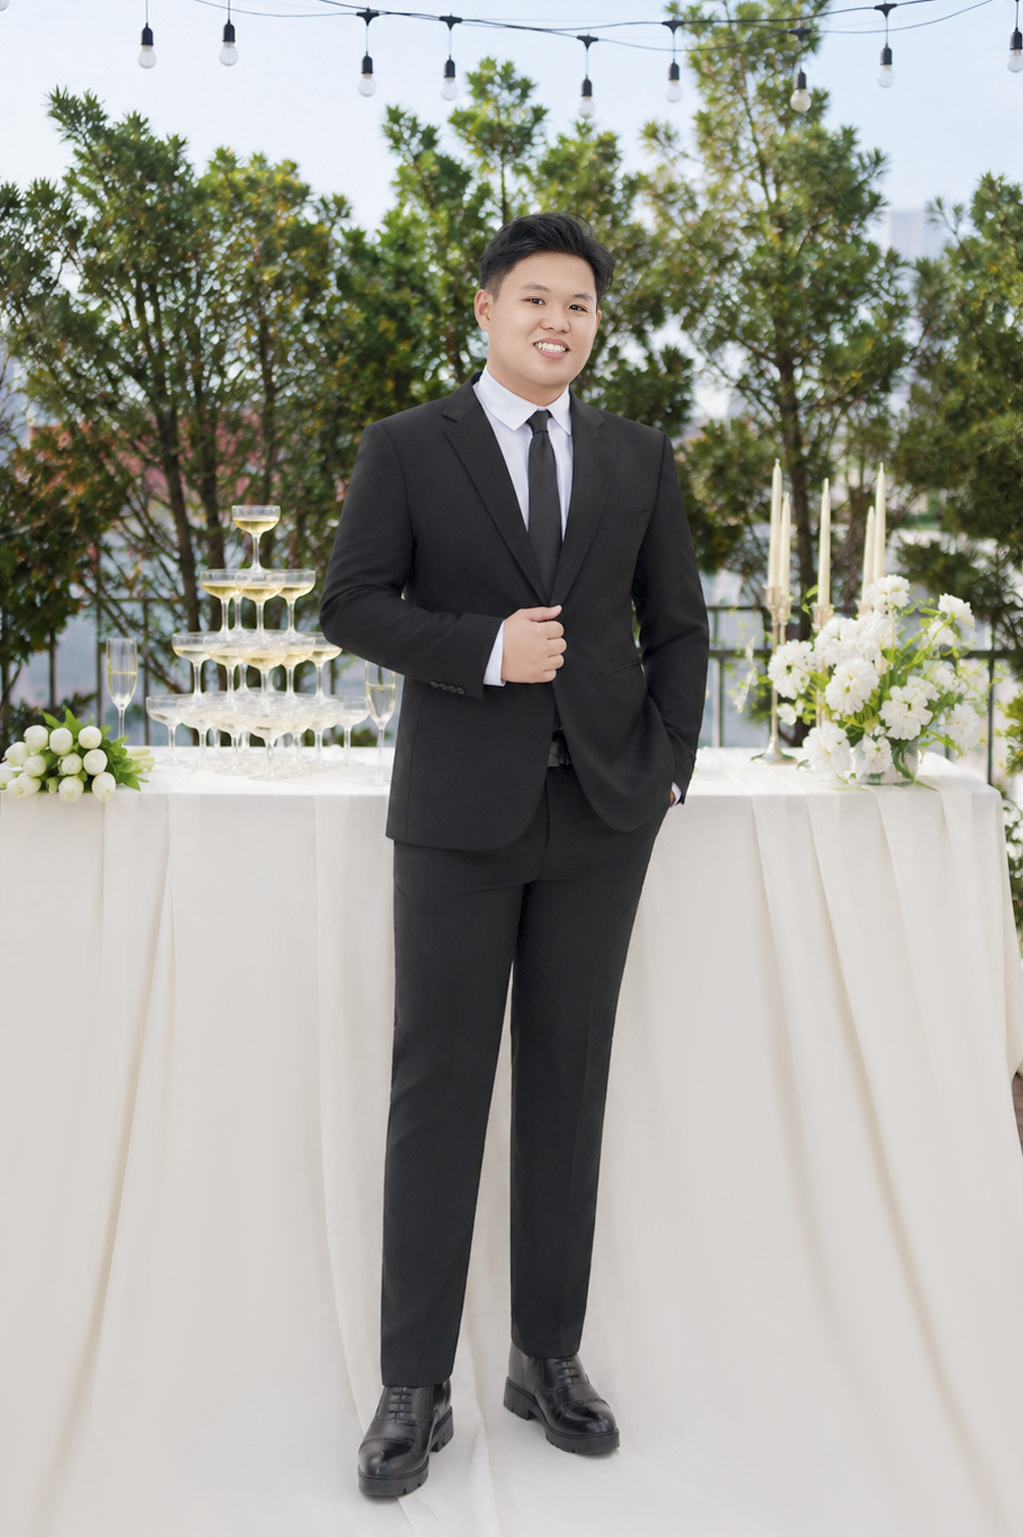
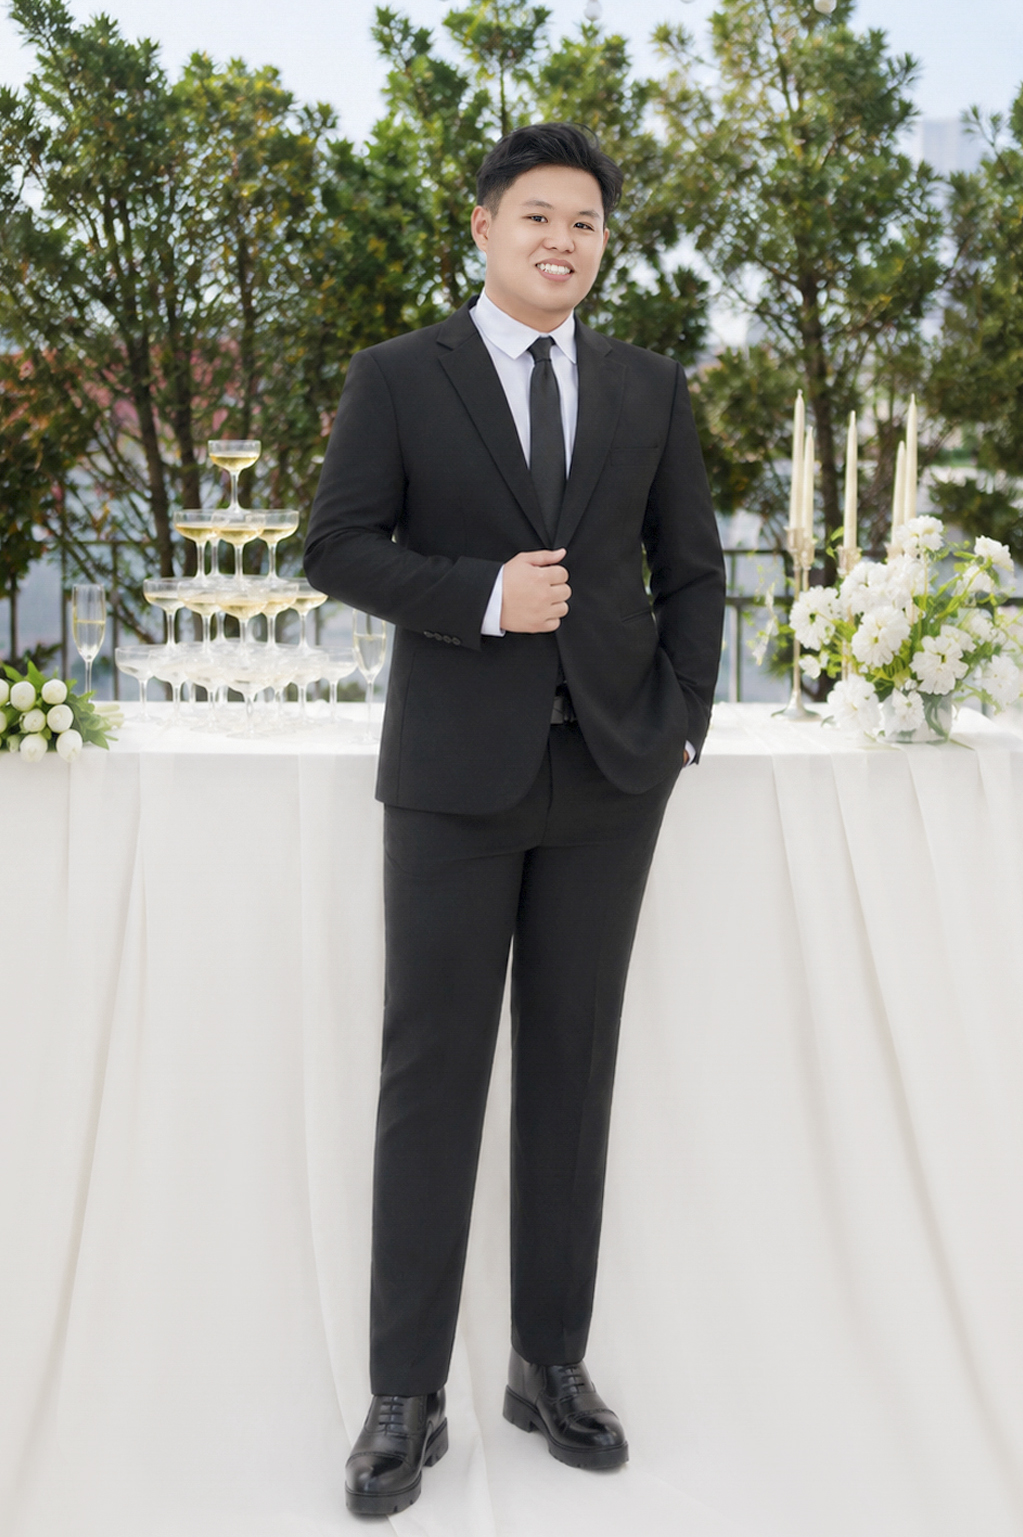
update form guest

diff --git a/src/App.js b/src/App.js
@@ -6,46 +6,116 @@ import TimeLine from "./components/TimeLine";
 import { useRef, useState, useEffect } from "react";
 import { FaMusic } from "react-icons/fa";
 import "./App.css";
+import InvalidInvite from "./components/InvalidInvite";
 
 function App() {
   const audioRef = useRef(null);
   const [isPlaying, setIsPlaying] = useState(false);
 
+  const [loading, setLoading] = useState(true);
+  const [guestName, setGuestName] = useState("");
+  const [invalidType, setInvalidType] = useState("");
+
   useEffect(() => {
-    const tryPlay = async () => {
+    const params = new URLSearchParams(window.location.search);
+    const code = params.get("code");
+
+    // Không có code
+    if (!code) {
+      setInvalidType("missing");
+      setLoading(false);
+      return;
+    }
+
+    fetch(
+      `https://script.google.com/macros/s/AKfycbwfGuul0bHtpiWtUD7x87cbMERRjsePFTxpdjbDee_xHwzytgkuHYsjxTIGI98ajVpafg/exec?code=${code}`,
+    )
+      .then((res) => res.json())
+      .then((data) => {
+        if (data.success) {
+          setGuestName(data.guestName);
+        } else {
+          setInvalidType("invalid");
+        }
+      })
+      .catch(() => {
+        setInvalidType("invalid");
+      })
+      .finally(() => {
+        setLoading(false);
+      });
+  }, []);
+
+  useEffect(() => {
+    const autoPlay = async () => {
+      if (!audioRef.current) return;
+
       try {
-        if (!audioRef.current) return;
         await audioRef.current.play();
         setIsPlaying(true);
+      } catch {}
 
-        // remove listener sau khi phát thành công
-        window.removeEventListener("click", tryPlay);
-        window.removeEventListener("scroll", tryPlay);
-      } catch (err) {
-        console.log("Chưa có interaction user");
-      }
+      window.removeEventListener("click", autoPlay);
+      window.removeEventListener("touchstart", autoPlay);
     };
 
-    window.addEventListener("click", tryPlay);
-    window.addEventListener("scroll", tryPlay, { passive: true });
+    window.addEventListener("click", autoPlay);
+    window.addEventListener("touchstart", autoPlay);
 
     return () => {
-      window.removeEventListener("click", tryPlay);
-      window.removeEventListener("scroll", tryPlay);
+      window.removeEventListener("click", autoPlay);
+      window.removeEventListener("touchstart", autoPlay);
     };
   }, []);
 
   const toggleMusic = async () => {
     if (!audioRef.current) return;
 
-    if (isPlaying) {
-      audioRef.current.pause();
-      setIsPlaying(false);
-    } else {
+    if (audioRef.current.paused) {
       await audioRef.current.play();
       setIsPlaying(true);
+    } else {
+      audioRef.current.pause();
+      setIsPlaying(false);
     }
   };
+  // Đang kiểm tra mã khách mời
+  if (loading) {
+    return (
+      <div className="min-h-dvh bg-[#F5F8F4] flex items-center justify-center">
+        <div className="text-center">
+          {/* Loading Circle */}
+          <div className="relative mx-auto w-20 h-20">
+            {/* vòng nền */}
+            <div className="absolute inset-0 rounded-full border-2 border-green-900/15"></div>
+
+            {/* vòng quay */}
+            <div className="absolute inset-0 rounded-full border-t-[3px] border-green-800 animate-spin"></div>
+          </div>
+
+          {/* Title */}
+          <p className="mt-8 text-6xl font-amsterdam text-green-900">Welcome</p>
+
+          {/* Subtitle */}
+          <p className="mt-3 font-cormorant uppercase tracking-[6px] text-green-800">
+            ĐANG MỞ THIỆP CƯỚI
+          </p>
+
+          {/* Loading dots */}
+          <div className="flex justify-center gap-2 mt-6">
+            <span className="w-2.5 h-2.5 rounded-full bg-green-700 animate-bounce"></span>
+            <span className="w-2.5 h-2.5 rounded-full bg-green-700 animate-bounce [animation-delay:0.2s]"></span>
+            <span className="w-2.5 h-2.5 rounded-full bg-green-800 animate-bounce [animation-delay:0.4s]"></span>
+          </div>
+        </div>
+      </div>
+    );
+  }
+
+  // Không có code hoặc code sai
+  if (invalidType) {
+    return <InvalidInvite type={invalidType} />;
+  }
 
   return (
     <div className="min-h-screen bg-gray-200 flex justify-center">
@@ -56,7 +126,7 @@ function App() {
       <div className="w-full max-w-[420px] bg-white shadow-2xl">
         <Hero />
         <Main />
-        <TimeLine />
+        <TimeLine guestName={guestName} />
         <Album />
         <End />
         <button

diff --git a/src/components/End.jsx b/src/components/End.jsx
@@ -7,42 +7,50 @@ const End = () => {
   const [openModal, setOpenModal] = useState(false);
   const [attendValue, setAttendValue] = useState("");
   const [loading, setLoading] = useState(false);
+  const params = new URLSearchParams(window.location.search);
+  const code = params.get("code");
 
   const onFinish = async (values) => {
     setLoading(true);
     try {
       const res = await fetch(
-        "https://script.google.com/macros/s/AKfycbyB_f3rrXGDhx7HcAWoxeoZ_Bzv3rTh70HYptpuQvVuDniWziG7mYdl_tBu7LFzigO3GA/exec",
+        "https://script.google.com/macros/s/AKfycbwfGuul0bHtpiWtUD7x87cbMERRjsePFTxpdjbDee_xHwzytgkuHYsjxTIGI98ajVpafg/exec",
         {
           method: "POST",
           body: JSON.stringify({
-            fullName: values.fullName,
-            phone: values.phone,
-            message: values.message,
+            code,
+            message: values.message || "",
             attend: values.attend,
             guestCount: values.guestCount,
           }),
         },
       );
 
+      if (!res.ok) {
+        throw new Error("Không thể kết nối máy chủ");
+      }
+
       const data = await res.json();
 
-      if (data.success) {
-        setOpenModal(true);
-
-        form.resetFields();
-        window.scrollTo({
-          top: 0,
-          behavior: "smooth",
-        });
-        setTimeout(() => {
-          setAttendValue(values.attend);
-          setOpenModal(true);
-        }, 900);
+      if (!data.success) {
+        throw new Error(data.message);
       }
+
+      form.resetFields();
+
+      window.scrollTo({
+        top: 0,
+        behavior: "smooth",
+      });
+
+      setAttendValue(values.attend);
+
+      setTimeout(() => {
+        setOpenModal(true);
+      }, 900);
     } catch (err) {
+      alert("Gửi thất bại, vui lòng thử lại.");
       console.error(err);
-      alert(err.message);
     } finally {
       setLoading(false);
     }
@@ -60,31 +68,12 @@ const End = () => {
         </span>
       </div>
       <div className="max-w-xl mx-auto rounded-3xl bg-white/80 backdrop-blur-md p-6 shadow-xl border border-green-100">
-        <Form form={form} layout="vertical" onFinish={onFinish}>
-          <Form.Item
-            label={
-              <span className="text-base font-semibold">Tên quý khách</span>
-            }
-            name="fullName"
-            rules={[
-              {
-                required: true,
-                message: "Vui lòng nhập tên quý khách",
-              },
-            ]}
-          >
-            <Input size="large" placeholder="Ví dụ: Trần Văn A" />
-          </Form.Item>
-
-          <Form.Item
-            label={
-              <span className="text-base font-semibold">Số điện thoại</span>
-            }
-            name="phone"
-          >
-            <Input size="large" placeholder="09xxxxxxxx" />
-          </Form.Item>
-
+        <Form
+          form={form}
+          layout="vertical"
+          disabled={loading}
+          onFinish={onFinish}
+        >
           <Form.Item
             label={
               <span className="text-base font-semibold">Lời chúc phúc</span>

diff --git a/src/components/TimeLine.jsx b/src/components/TimeLine.jsx
@@ -1,12 +1,12 @@
 import React from "react";
-import DSC_5027 from "../assets/images/DSC_5027.jpg";
+import DSC_5062 from "../assets/images/DSC_5062.jpg";
 import DSC_4821 from "../assets/images/DSC_4821.jpg";
 import DSC_4325 from "../assets/images/DSC_4325.jpg";
 import heart from "../assets/images/heart.png";
 import endpicture from "../assets/images/pic.png";
 import useInViewOnce from "../hook/useInViewOnce.js";
 
-const TimeLine = () => {
+const TimeLine = ({ guestName }) => {
   const invite = useInViewOnce(0.3);
 
   const ceremony = useInViewOnce(0.25);
@@ -20,9 +20,10 @@ const TimeLine = () => {
     [21, 22, 23, 24, 25, 26, 27],
     [28, 29, 30, "", "", "", ""],
   ];
+
   return (
     <section className="text-center flex flex-col justify-center items-center overflow-hidden p-4">
-      <div className="flex flex-col gap-5">
+      <div className="flex flex-col gap-4 pb-5 pt-2">
         <p
           ref={invite.ref}
           className={`
@@ -39,20 +40,19 @@ const TimeLine = () => {
         </p>
         <div
           className={`
-             w-[220px] 
-             my-0 
-             mx-auto
-              transform-gpu
-              will-change-transform
-              transition-[transform,opacity]
-              duration-[5000ms]
-              ease-[cubic-bezier(0.22,1,0.36,1)]
-              origin-center
-              ${invite.show ? "opacity-100 scale-100" : "opacity-0 scale-[0.15]"}
-            `}
+            inline-block
+            mx-3
+            transform-gpu
+            will-change-transform
+            transition-[transform,opacity]
+            duration-[5000ms]
+            ease-[cubic-bezier(0.22,1,0.36,1)]
+            origin-center
+            ${invite.show ? "opacity-100 scale-100" : "opacity-0 scale-[0.15]"}
+          `}
         >
-          <p className="text-4xl font-pinyon tracking-[1px] -mb-2">
-            Quý Gia Đình
+          <p className="text-4xl font-pinyon tracking-[1px] -mb-3">
+            {guestName}
           </p>
           <div className="border-b-2 border-gray-950"></div>
         </div>
@@ -74,10 +74,10 @@ const TimeLine = () => {
         </p>
       </div>
 
-      <div className="flex gap-2 pt-5 items-center">
+      <div className="flex gap-2 items-center">
         <div className="flex-1 justify-center">
           <img
-            src={DSC_5027}
+            src={DSC_5062}
             alt="album 1"
             className={`
               w-full

diff --git a/src/components/InvalidInvite.jsx b/src/components/InvalidInvite.jsx
@@ -1,0 +1,49 @@
+import React from "react";
+import { FaHeartBroken } from "react-icons/fa";
+
+const InvalidInvite = ({ type = "missing" }) => {
+  const isMissing = type === "missing";
+
+  return (
+    <section className="min-h-dvh bg-gradient-to-b from-[#f8f4ef] via-white to-[#f8f4ef] flex items-center justify-center px-6">
+      <div className="max-w-md w-full">
+        <div className="bg-white rounded-[32px] shadow-2xl border border-[#ece4d8] p-10 text-center">
+          <div className="mx-auto w-24 h-24 rounded-full bg-red-50 flex items-center justify-center">
+            <FaHeartBroken className="text-red-500 text-7xl" />
+          </div>
+
+          <p className="mt-8 text-6xl font-amsterdam text-[#2c4b3d]">Oops...</p>
+
+          <h2 className="mt-6 text-2xl font-cormorant uppercase tracking-[2px]">
+            Không thể mở thiệp
+          </h2>
+
+          <p className="mt-6 text-gray-600 leading-8 text-lg">
+            {isMissing
+              ? "Liên kết bạn vừa mở chưa đầy đủ nên chúng mình không thể xác định được khách mời."
+              : "Khách mời không tồn tại hoặc đã bị thay đổi nên chúng mình không thể mở thiệp."}
+          </p>
+
+          <div className="w-32 h-px bg-gray-300 mx-auto my-8"></div>
+
+          <p className="text-gray-500 leading-8">
+            Vui lòng sử dụng đúng liên kết được gửi từ
+            <br />
+            cô dâu hoặc chú rể.
+          </p>
+
+          <div className="mt-8 flex flex-col gap-5 text-6xl">
+            <p className="mb-0 font-amsterdam text-[#2c4b3d]">Bảo Lộc</p>
+            <p className="mb-0 font-amsterdam text-gray-500">&</p>
+            <p className="mb-0 font-amsterdam text-[#2c4b3d]">Thị Thel</p>
+            <p className="mt-4 mb-0 uppercase tracking-[6px] text-base text-gray-400">
+              Wedding Invitation 2026
+            </p>
+          </div>
+        </div>
+      </div>
+    </section>
+  );
+};
+
+export default InvalidInvite;
